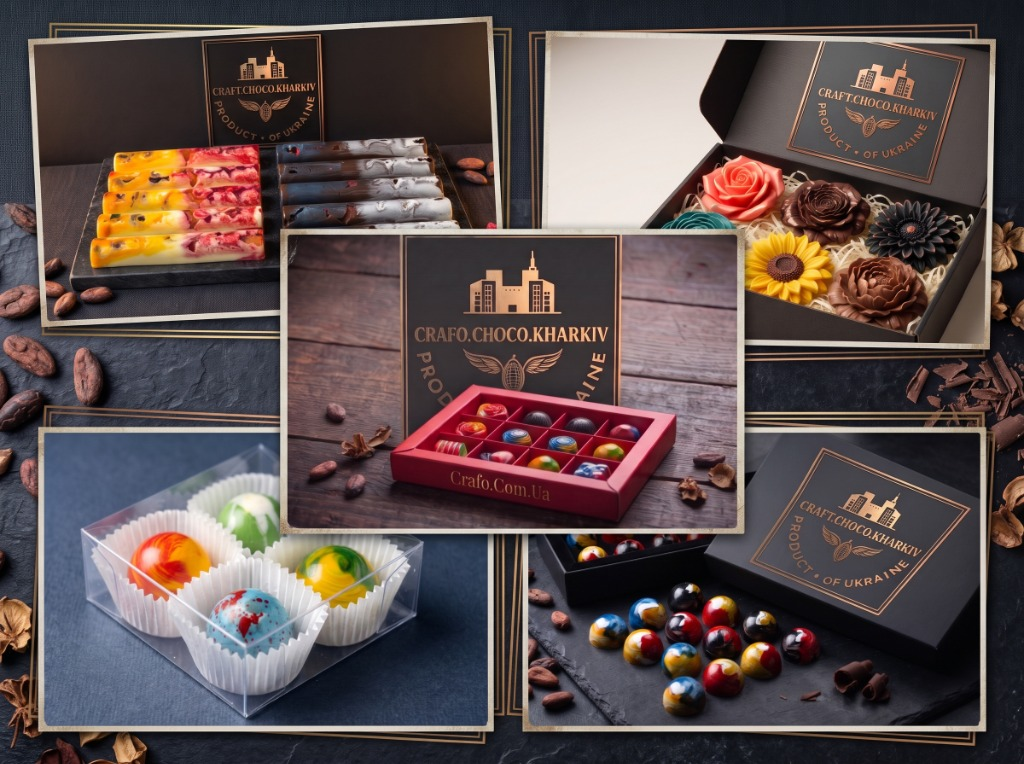
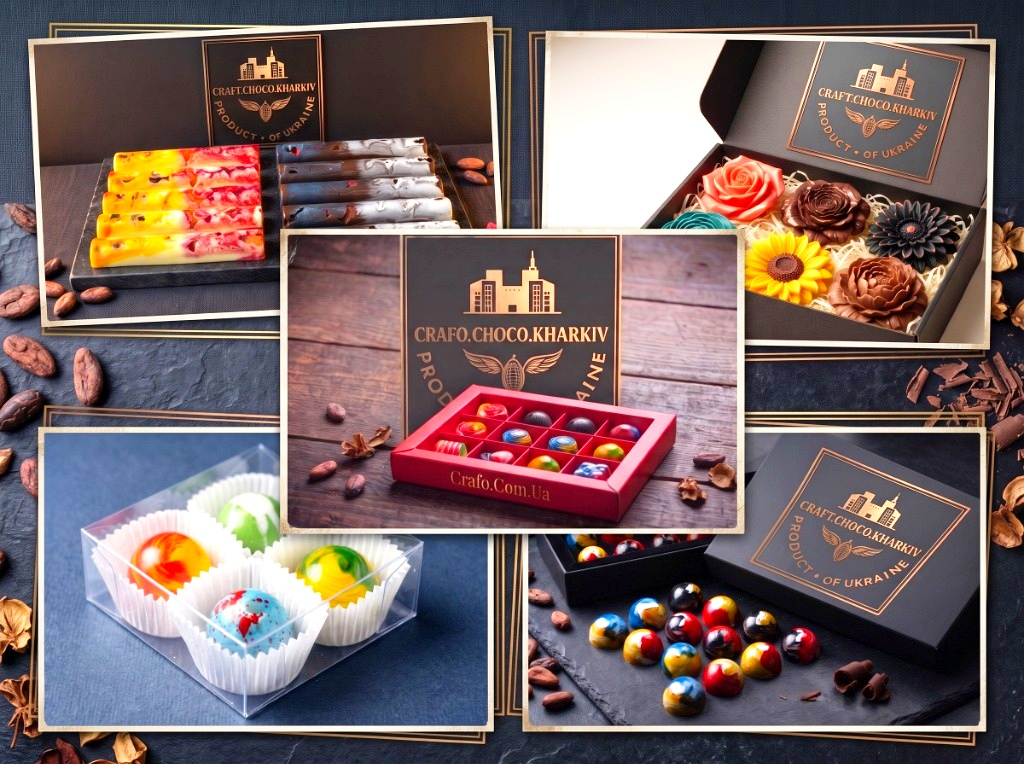
UI: enhance image brightness/vibrancy, remove dark veil from cards, and add 'в Україні' to CrafoHub header branding

diff --git a/src/components/ChocoRadarApp.tsx b/src/components/ChocoRadarApp.tsx
@@ -760,9 +760,12 @@ export default function ChocoRadarApp({
             <span className="grid w-9 h-9 sm:w-10 sm:h-10 place-items-center rounded-xl bg-gradient-to-br from-[#7a4a2b] to-[#3a2113] text-white shadow-md text-lg">
               🍫
             </span>
-            <span className="flex flex-col items-start leading-none">
-              <span className="font-serif text-base sm:text-lg font-bold tracking-tight">
-                Crafo<span className="text-[#b06a1e]">Hub</span>
+            <span className="flex flex-col items-start leading-tight">
+              <span className="font-serif text-base sm:text-lg font-bold tracking-tight inline-flex items-baseline gap-1.5 whitespace-nowrap">
+                <span>Crafo<span className="text-[#b06a1e]">Hub</span></span>
+                <span className="text-[11px] sm:text-xs font-semibold text-[#b06a1e]">
+                  {lang === 'uk' ? 'в Україні' : 'в Украине'}
+                </span>
               </span>
               <span
                 className={`text-[10px] sm:text-[11px] font-medium ${
@@ -1016,19 +1019,19 @@ export default function ChocoRadarApp({
                     : 'bg-[#fefbf7] border-[#d4b08c] hover:border-[#b06a1e] shadow-md'
                 }`}
               >
-                <div className="relative h-64 sm:h-72 overflow-hidden bg-[#3a2113]">
+                <div className="relative h-64 sm:h-72 overflow-hidden bg-[#24130a]">
                   <img
                     src="/images/crafo-collage.jpg"
                     alt="Шоколад та цукерки"
-                    className="w-full h-full object-cover object-center brightness-105 contrast-105 transition-transform duration-500 group-hover:scale-105"
+                    className="w-full h-full object-cover object-center brightness-110 contrast-105 saturate-110 transition-transform duration-500 group-hover:scale-105"
                   />
-                  <div className="absolute inset-0 bg-gradient-to-t from-black/75 via-black/20 to-transparent" />
+                  <div className="absolute inset-x-0 bottom-0 h-32 bg-gradient-to-t from-black/85 via-black/35 to-transparent pointer-events-none" />
                   <div className="absolute top-4 left-4">
                     <span className="inline-flex items-center gap-1.5 rounded-full bg-[#e39851] px-3 py-1 text-xs font-extrabold text-[#26140b] shadow-md">
                       🍫 {chocolateMakersCount} {lang === 'uk' ? 'майстерень' : 'мастерских'}
                     </span>
                   </div>
-                  <div className="absolute bottom-4 left-4 right-4 text-white">
+                  <div className="absolute bottom-4 left-4 right-4 text-white drop-shadow-md">
                     <div className="text-xs font-extrabold uppercase tracking-wider text-[#f5c492]">
                       {lang === 'uk' ? 'Розділ 1' : 'Раздел 1'}
                     </div>
@@ -1111,13 +1114,13 @@ export default function ChocoRadarApp({
                     alt="Авторські торти та десерти"
                     className="w-full h-full object-cover object-center brightness-105 contrast-105 transition-transform duration-500 group-hover:scale-105"
                   />
-                  <div className="absolute inset-0 bg-gradient-to-t from-black/75 via-black/20 to-transparent" />
+                  <div className="absolute inset-x-0 bottom-0 h-32 bg-gradient-to-t from-black/85 via-black/35 to-transparent pointer-events-none" />
                   <div className="absolute top-4 left-4">
                     <span className="inline-flex items-center gap-1.5 rounded-full bg-[#c75b7a] px-3 py-1 text-xs font-extrabold text-white shadow-md">
                       🎂 {cakeMakersCount} {lang === 'uk' ? 'кондитерських' : 'кондитерских'}
                     </span>
                   </div>
-                  <div className="absolute bottom-4 left-4 right-4 text-white">
+                  <div className="absolute bottom-4 left-4 right-4 text-white drop-shadow-md">
                     <div className="text-xs font-extrabold uppercase tracking-wider text-pink-200">
                       {lang === 'uk' ? 'Розділ 2' : 'Раздел 2'}
                     </div>
@@ -1200,13 +1203,13 @@ export default function ChocoRadarApp({
                     alt="Крафтовий зефір та букети"
                     className="w-full h-full object-cover object-center brightness-105 contrast-105 transition-transform duration-500 group-hover:scale-105"
                   />
-                  <div className="absolute inset-0 bg-gradient-to-t from-black/75 via-black/20 to-transparent" />
+                  <div className="absolute inset-x-0 bottom-0 h-32 bg-gradient-to-t from-black/85 via-black/35 to-transparent pointer-events-none" />
                   <div className="absolute top-4 left-4">
                     <span className="inline-flex items-center gap-1.5 rounded-full bg-[#e0a866] px-3 py-1 text-xs font-extrabold text-[#26140b] shadow-md">
                       🌸 {zefirMakersCount} {lang === 'uk' ? 'майстерень' : 'мастерских'}
                     </span>
                   </div>
-                  <div className="absolute bottom-4 left-4 right-4 text-white">
+                  <div className="absolute bottom-4 left-4 right-4 text-white drop-shadow-md">
                     <div className="text-xs font-extrabold uppercase tracking-wider text-amber-200">
                       {lang === 'uk' ? 'Розділ 3' : 'Раздел 3'}
                     </div>

diff --git a/src/app/blog/page.tsx b/src/app/blog/page.tsx
@@ -49,8 +49,17 @@ export default function BlogIndexPage() {
             <span className="grid w-10 h-10 place-items-center rounded-xl bg-gradient-to-br from-[#7a4a2b] to-[#3a2113] text-white shadow-md text-lg">
               🍫
             </span>
-            <span className="font-serif text-lg font-bold">
-              Crafo<span className="text-[#b06a1e]">Hub</span> Блог
+            <span className="flex flex-col items-start leading-tight">
+              <span className="font-serif text-base sm:text-lg font-bold tracking-tight inline-flex items-baseline gap-1.5 whitespace-nowrap">
+                <span>Crafo<span className="text-[#b06a1e]">Hub</span></span>
+                <span className="text-[11px] sm:text-xs font-semibold text-[#b06a1e]">
+                  в Україні
+                </span>
+                <span className="text-xs sm:text-sm font-normal text-stone-500">• Блог</span>
+              </span>
+              <span className="text-[10px] sm:text-[11px] font-medium text-[#715f53]">
+                crafohub.com.ua
+              </span>
             </span>
           </Link>
 
